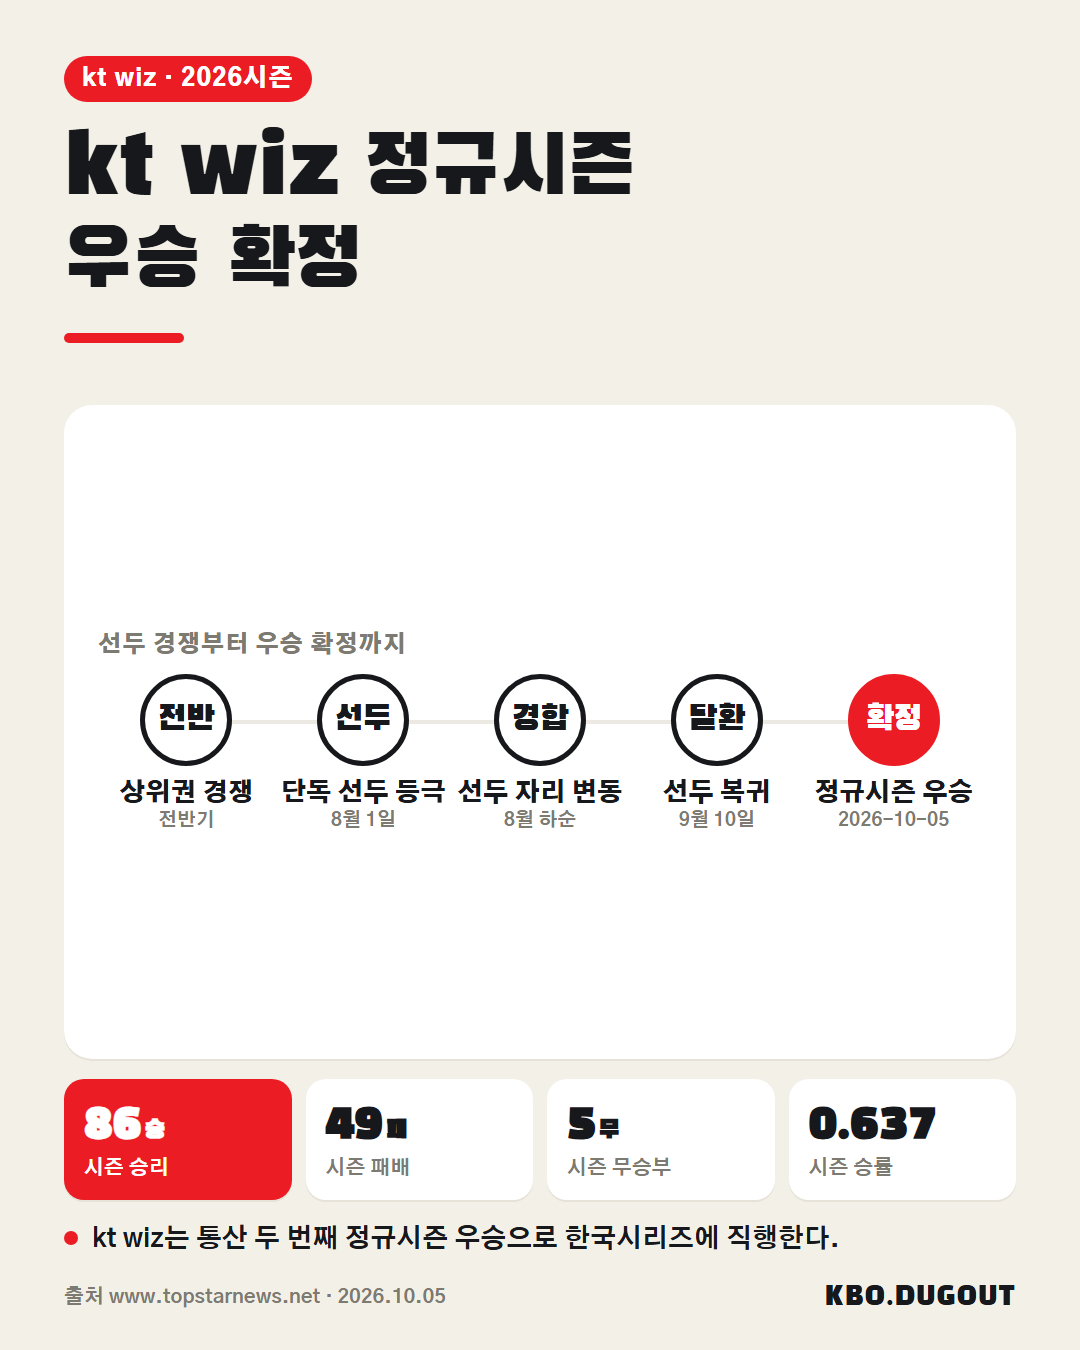
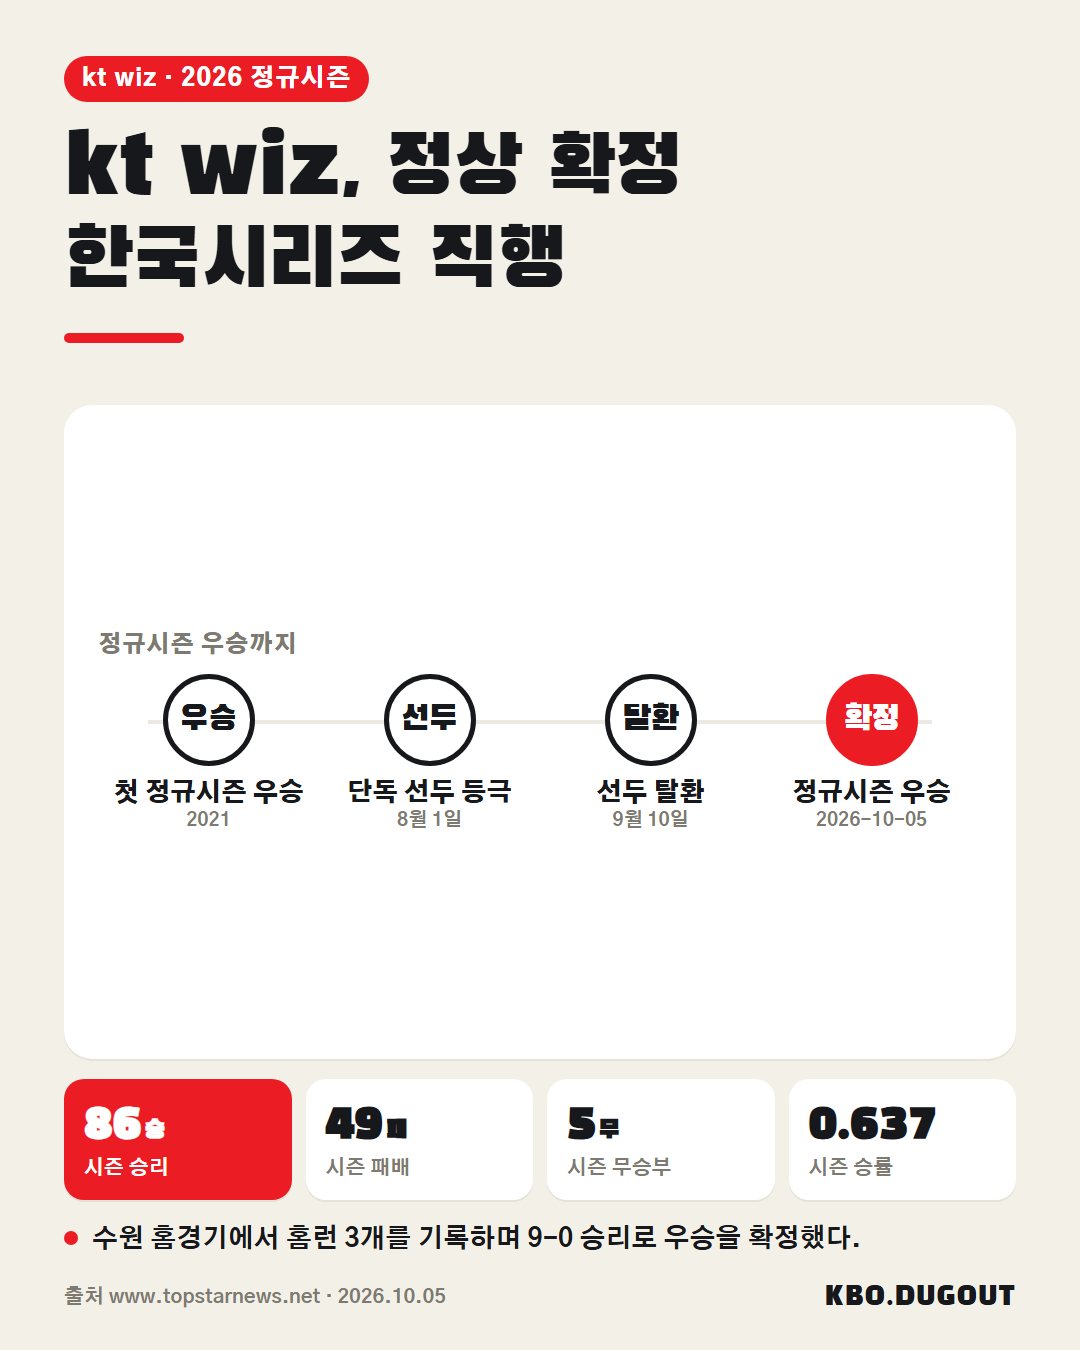
chore: publish review batch 9e40487d2379

diff --git a/review/2026-10-05-9e40487d2379.html b/review/2026-10-05-9e40487d2379.html
@@ -1,0 +1,28 @@
+<!doctype html>
+<html lang="ko">
+<head>
+  <meta charset="utf-8">
+  <meta name="viewport" content="width=device-width, initial-scale=1">
+  <title>콘텐츠 검토</title>
+  <style>
+    * { box-sizing: border-box; }
+    body { margin: 0; background: #f3efe4; color: #182126; font-family: sans-serif; }
+    main { width: min(100%, 720px); margin: auto; padding: 24px 16px 48px; }
+    article { margin: 0 0 32px; padding-bottom: 32px; border-bottom: 1px solid #aaa397; }
+    .carousel { display: grid; gap: 12px; }
+    img { display: block; width: 100%; max-width: 100%; height: auto; }
+    .meta { color: #5f625e; font-size: .85rem; }
+    .body { white-space: pre-wrap; line-height: 1.65; }
+    .qa { padding: 12px; background: #e5ded0; }
+  </style>
+</head>
+<body><main><h1>콘텐츠 검토</h1><article>
+  <p class="meta">Draft #185</p>
+  <div class="carousel">
+    <img src="../cards/draft-185-01.png" alt="Draft #185 카드 1">
+  </div>
+  <p class="body">kt wiz가 2026시즌 정규시즌 1위를 확정했어요. 2021년 이후 5년 만의 통산 두 번째 우승이고, 한국시리즈에 직행합니다. 한국시리즈에서도 웃을 수 있을까요?
+#KBO #프로야구 #야구 #KT위즈</p>
+  <p class="qa"><strong>QA</strong> 없음</p>
+</article></main></body>
+</html>
